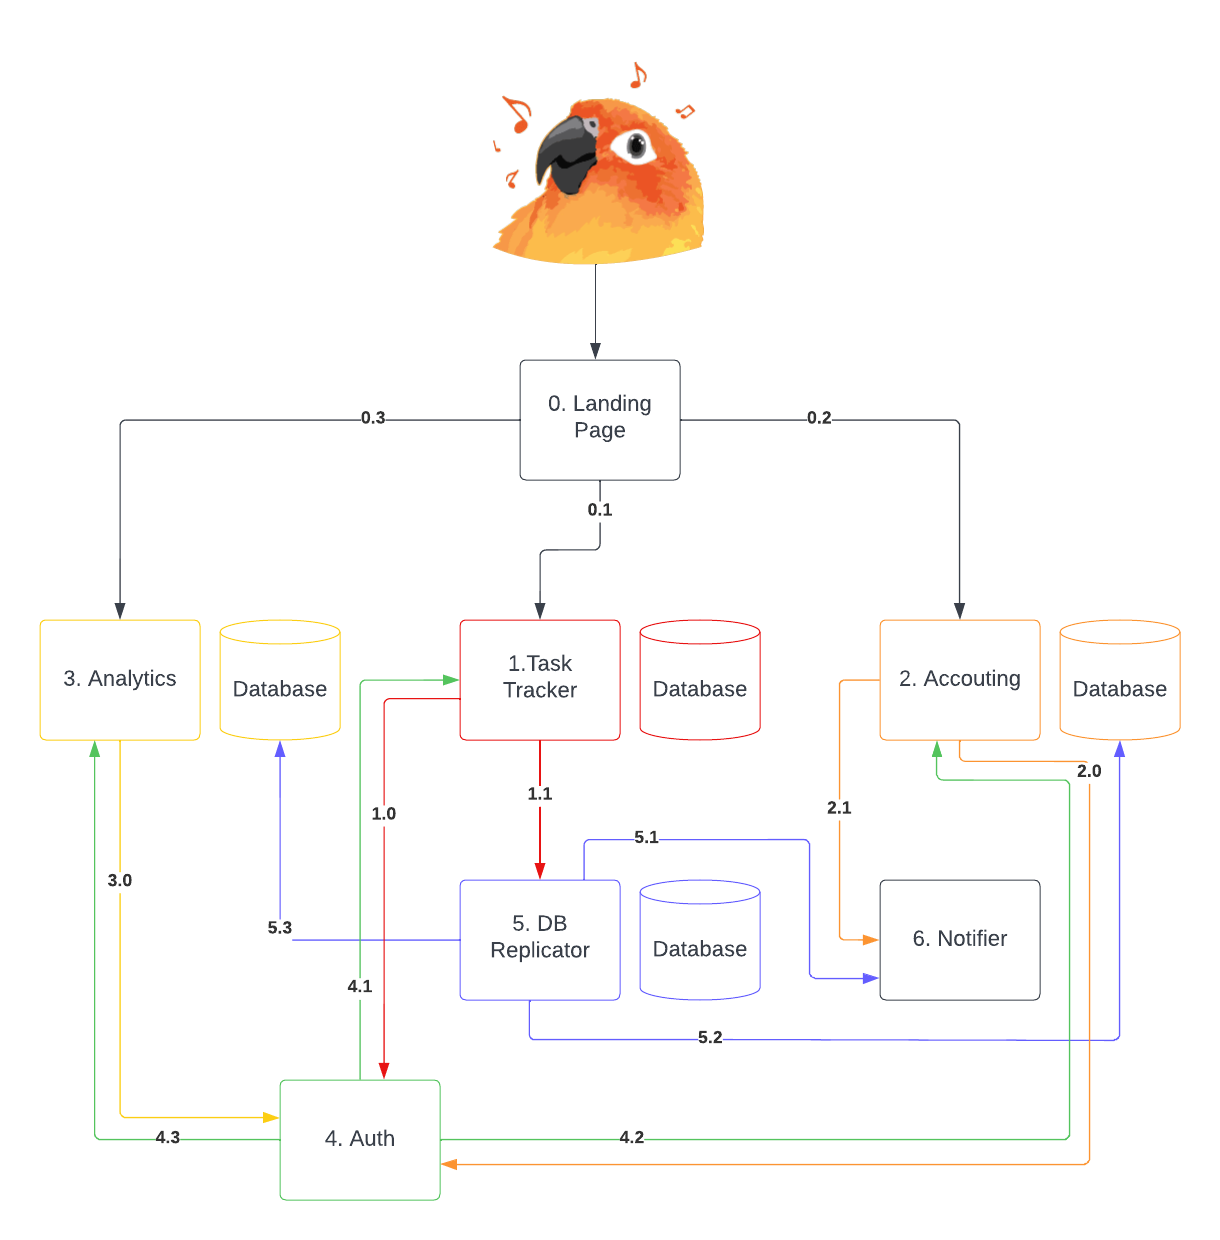
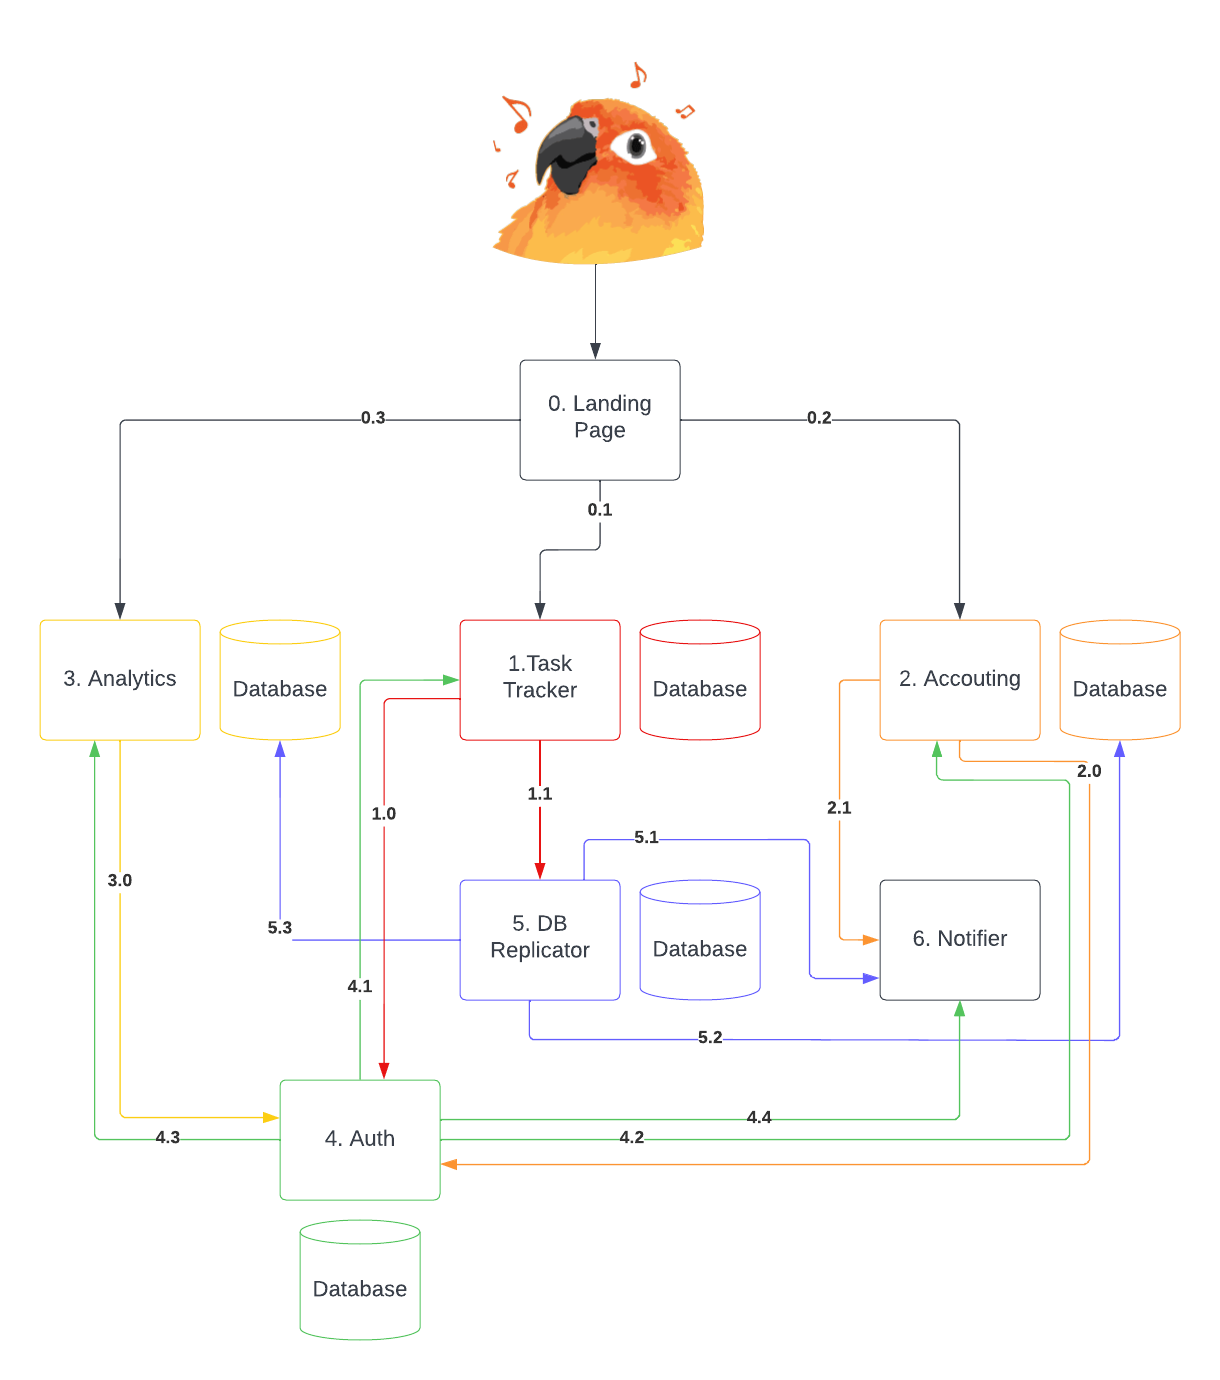
finished

diff --git a/homework0/README.md b/homework0/README.md
@@ -8,10 +8,12 @@
 * [Сервисы](#сервисы)
   * [0. Landing Page](#0-landing-page)
   * [1. Task Tracker](#1-task-tracker)
-  * [Virtualenv](#virtualenv)
-  * [Cloning and setting up the application](#cloning-and-setting-up-the-application)
-  * [Deploy](#deploy)
+  * [2. Accounting](#2-accounting)
+  * [3. Analytics](#3-analytics)
+  * [4. Auth](#4-auth)
   * [5. DB Replicator](#5-db-replicator)
+  * [6. Notifier](#6-notifier)
+* [Заключение](#заключение)
 >>>
 
 ## Схема
@@ -47,15 +49,66 @@ uberpopug.com
 В БД три таблицы - пользователи (username, role), пермиссии (can_add / can_reassign / ...) и таски (name, status, price, ...).
 
 Взаимодействие с другими сервисами:
-1.0: Аутентификация - описано выше
-1.1: Передача данных в репликатор - сюда передаем данные для Аккаунтинга и Аналитики - по двум действиям - ассайну на сотрудника и закрытию задачи (user_id, type (assign/close), price)
+1.0: Аутентификация - описано выше (при каждом запросе возвращается пользователь - он либо добавляется, либо обновляет таблицу users)
+1.1: Передача данных в репликатор - сюда передаем данные для Аккаунтинга и Аналитики - по двум действиям - ассайну на сотрудника и закрытию задачи (user_id/name, type (assign/close), price)
 
 *Важно!*
 Рекомендую сразу перейти к [5. DB Replicator](#5-db-replicator), а потом вернуться - так будет понятнее.
 
+### 2. Accounting
+
+Тут ничего не пишется, только выводятся данные. Они складываются в базу нашим [5. DB Replicator](#5-db-replicator), Аутентификация проходит как и в остальных сервисах. Собственно тут дашборды для вывода данных, логика рассчета и отправки уведомления на почту (2.1). Проблема с моделью пермиссий. Она должна быть отдельной - под нее придется заводить админку и выдавать пермиссии по ролям.
+
+### 3. Analytics
+
+Тут ничего не пишется, только выводятся данные. Они складываются в базу нашим [5. DB Replicator](#5-db-replicator), Аутентификация проходит как и в остальных сервисах. Единственное, что нужно добавить - это таблицу пермиссий, чтобы запрещать просмотр аналитики всем, кроме админов. Не хотелось бы добавлять в Аутентификацию помимо ролей еще и сервисы - пусть только проверяет/регистрирует и возвращает пользователя с ролью, а дальше в каждом сервисе уже свои пермиссии на каждую роль. Единственный минус тут - придется либо хардкодить роль, либо добавлять админку для менеджерения пермиссий.
+
+### 4. Auth
+
+Сервис Аутентификации - содержит логику по аутентификации:
+1. Если пользователь есть в системе и он активен (is_active) - отправляет 200 + данные о пользователе в систему из которой пришел запрос (для добавления/обновления)
+2. Если пользователя нет - редиректит на регистрацию
+
+Думаю, разумно добавть сюда простеньку админку с суперюзером для менеджмента активности/неактивности пользователей (в случае, например, увольнения). Из админки же будут проставляться роли пользователю.
+
+При регистрации нового пользователя будет отправляться уведомление админу через Notifier (4.4)
+
+Для остальных сервисов будет проводиться одинаковая логика аутентификации в соотв. с написанным выше (4.1, 4.2, 4.3)
+
+Из проблем вижу возможную потерю данных при синках/регистрации при работе с другими сервисами. Однако это решается постоянной аутентификацией сервисов по любому действию - то есть если что-то и пойдет не так, то аутентификация просто не пройдет, а когда она пройдет - то пользователь в сервисе уже будет в актуальном состоянии.
+
+Еще одна проблема - синхронизация ролей между сервисами для выдачи пермиссий. Например, если мы добавим новую роль в сервисе Аутентификации - надо как-то ее будет пошарить на другие сервисы, чтобы на нее можно было навесить или не навешивать пермиссии.
+
 ### 5. DB Replicator
 
-Смысл сервиса в том, чтобы иметь основную копию базы, которая будет реплицироваться пока что на два сервиса - Аналитику и Аккаунтинг (может потом еще добавятся?). По сути это мастер-база, с версионностью и простой логикой - можно сделать на Go с рутинками - раз в n sec клонировать базу в связанные сервисы, если успех - супер, если нет - отправляем нотификацию администраторам системы - отсюда связь с Notifier (поэтому он и вынесен в отдельный сервис).
+Смысл сервиса в том, чтобы иметь основную копию базы, которая будет реплицироваться пока что на два сервиса - Аналитику (5.3) и Аккаунтинг (5.2) (может потом еще добавятся?). По сути это мастер-база, с версионностью и простой логикой - можно сделать на Go с рутинками - раз в n sec клонировать базу в связанные сервисы, если успех - супер, если нет - отправляем нотификацию администраторам системы - отсюда связь с Notifier (5.1) (поэтому он и вынесен в отдельный сервис).
 
 Поскольку для Аналитики и Аккаунтинга нам нужно только читать данные - мы делаем такое разделение. Плюс - если отвалится какая-то база - у нас будут реплики + мы всегда сможем восстановиться с мастер базы и т.д.
+
+### 6. Notifier
+
+Пока реализован как простой отправщик сообщений на почту, получающий по API данные типа (user_mail, message). Однако в дальнейшем можно сделать из него более серьезный сервис, который бы отслеживал логины/логауты пользователей, добавить возможность отправки в мессенджеры/смс и пр.
+
+В целом, в текущей реализации его функционал - это send_mail, который можно просто добавить в необходимые сервисы (Accounting, Auth, DB Replicator). Скорее всего так будет правильнее, потому что в случае чего это все легко выносится в сервис когда будет необходимость, а функция send_mail вместо отправки напрямую будет отправлять в Notifier.
+
+## Заключение
+
+Из проблем мне кажется наиболее неприятной Аутентификация с синхронизацией ролей между сервисами, так как в каждом из 3 основных сервисов нам нужны пользователи. Она решаема без глобальных синхронизаций:
+1. В каждом сервисе заводим таблицы БД users, user_roles и user_permissions
+
+```
+users:
+id, name, role_id, email, ... (по необходимости - если нам нужно подтянуть что-то дополнительное из Аутентификации)
+
+user_roles:
+id, name
+
+user_permissions:
+id, role_id, permission (can_view, can_add, can_delete, can_change, ... в зависимости от системы)
+```
+
+2. При аутентификации любого пользователя в сервис - наполняем эти таблицы
+3. Если для какой-то роли нет пермиссий - пишем, что у вас нет доступа
+4. Если пермиссия есть - работаем
+5. Как только в сервисе Аутентификации заведется новая роль и будут пользователи с такой ролью - при их заходе в сервис - роль появится в базе и на нее можно будет добавить пермиссии
 
